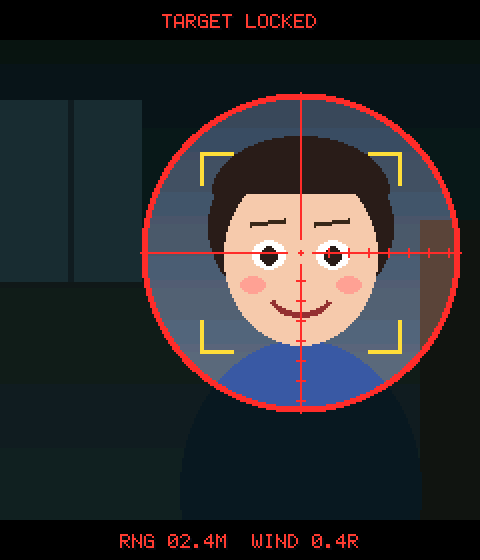
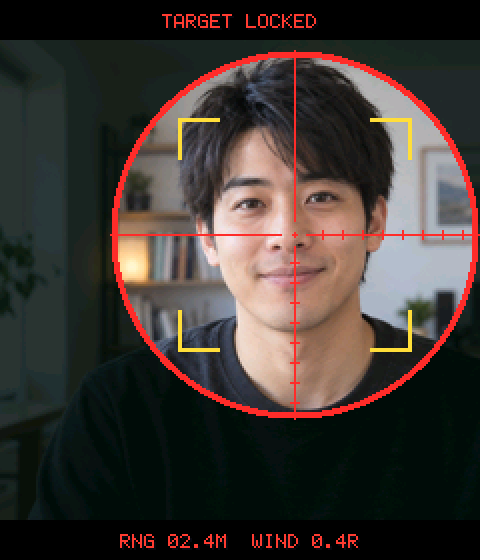
docs: refresh face fight readme visuals

diff --git a/tools/screenshots/render_screens.py b/tools/screenshots/render_screens.py
@@ -2,8 +2,8 @@
 """Render README screenshots from the firmware's own drawing code.
 
 The game logic and renderer in main/main.cpp are compiled on the host with
-hardware functions stripped out. A synthetic cartoon face stands in for the
-camera so no real person appears in the images.
+hardware functions stripped out. An AI-generated fictional adult stands in for
+the camera input so no real person appears in the images.
 
 Usage: uv run --with pillow python tools/screenshots/render_screens.py
 Output: docs/images/*.png and docs/images/lock-on.gif
@@ -13,7 +13,7 @@ import re
 import subprocess
 import tempfile
 
-from PIL import Image, ImageDraw
+from PIL import Image
 
 ROOT = pathlib.Path(__file__).resolve().parents[2]
 HERE = pathlib.Path(__file__).resolve().parent
@@ -53,27 +53,9 @@ def extract_game_source() -> str:
 
 
 def synthetic_camera_frame(path: pathlib.Path) -> None:
-    """A cartoon player in a room; the face box matches host_main.cpp."""
-    image = Image.new("RGB", (320, 240))
-    draw = ImageDraw.Draw(image)
-    for y in range(240):
-        shade = 70 + y // 4
-        draw.line([(0, y), (320, y)], fill=(shade - 20, shade - 5, shade + 15))
-    draw.rectangle([40, 30, 110, 120], fill=(150, 185, 210))  # window
-    draw.line([(75, 30), (75, 120)], fill=(90, 110, 130), width=3)
-    draw.rectangle([250, 90, 300, 240], fill=(95, 70, 60))  # shelf
-    draw.ellipse([130, 150, 250, 300], fill=(60, 90, 160))  # shoulders
-    cx, cy = 190, 106
-    draw.ellipse([cx - 46, cy - 56, cx + 46, cy + 30], fill=(45, 30, 25))  # hair
-    draw.ellipse([cx - 38, cy - 42, cx + 38, cy + 46], fill=(245, 200, 170))
-    draw.chord([cx - 44, cy - 58, cx + 44, cy - 2], 180, 360, fill=(45, 30, 25))
-    for ex in (cx - 16, cx + 16):
-        draw.ellipse([ex - 8, cy - 6, ex + 8, cy + 8], fill=(255, 255, 255))
-        draw.ellipse([ex - 4, cy - 3, ex + 4, cy + 6], fill=(40, 30, 30))
-        draw.line([(ex - 9, cy - 14), (ex + 8, cy - 16)], fill=(60, 40, 30), width=3)
-    draw.ellipse([cx - 30, cy + 12, cx - 18, cy + 20], fill=(250, 160, 150))
-    draw.ellipse([cx + 18, cy + 12, cx + 30, cy + 20], fill=(250, 160, 150))
-    draw.arc([cx - 16, cy + 10, cx + 16, cy + 32], 20, 160, fill=(150, 50, 50), width=3)
+    """Resize the fictional README player to the camera's native frame."""
+    source = HERE / "synthetic-player.png"
+    image = Image.open(source).convert("RGB").resize((320, 240), Image.Resampling.LANCZOS)
     path.write_bytes(image.tobytes())
 
 

diff --git a/tools/screenshots/host_main.cpp b/tools/screenshots/host_main.cpp
@@ -129,11 +129,11 @@ int main(int argc, char **argv) {
   std::fclose(file);
   camera_image = {camera_rgb, kCameraWidth, kCameraHeight};
 
-  // Face box of the synthetic player in camera coordinates (see render_screens.py).
+  // Face box of the fictional player in camera coordinates (see render_screens.py).
   person_present = true;
-  person_box[0] = 150;
-  person_box[1] = 62;
-  person_box[2] = 230;
+  person_box[0] = 142;
+  person_box[1] = 45;
+  person_box[2] = 232;
   person_box[3] = 150;
   stable_face_frames = 3;
 

diff --git a/README.md b/README.md
@@ -1,4 +1,4 @@
-# Chi Face Fight
+# Face Fight
 
 A self-contained face-fighting game for an ESP32-S3 camera board and a
 240 x 280 touch LCD. The reference build uses a Seeed Studio XIAO ESP32S3 Sense
@@ -10,22 +10,31 @@ transparent, moving opponent while Secretary Chi walks, punches, kicks, dodges,
 blocks, gets hit, and celebrates using pixel-art sprite animation.
 
 <p align="center">
-  <img src="docs/images/lock-on.gif" width="240" alt="Sniper lock-on sequence after the face is captured">
+  <img src="docs/images/lock-on.gif" width="320" alt="Sniper lock-on sequence after the face is captured">
 </p>
 
 ## Screenshots
 
-| Find face | Lock on | Intro | Attack | Warning |
-|:-:|:-:|:-:|:-:|:-:|
-| <img src="docs/images/01-find-face.png" width="150"> | <img src="docs/images/02-lock-on.png" width="150"> | <img src="docs/images/03-intro.png" width="150"> | <img src="docs/images/04-attack.png" width="150"> | <img src="docs/images/05-warning.png" width="150"> |
+| Find a face | Fight | Flick dodge |
+|:-:|:-:|:-:|
+| <img src="docs/images/01-find-face.png" width="220" alt="Face detection on the camera preview"> | <img src="docs/images/04-attack.png" width="220" alt="Chi landing a combo attack"> | <img src="docs/images/06-flick-jump.png" width="220" alt="Chi dodging an incoming attack"> |
 
-| Flick dodge | Weak point | Critical | Chi wins | Face wins |
-|:-:|:-:|:-:|:-:|:-:|
-| <img src="docs/images/06-flick-jump.png" width="150"> | <img src="docs/images/07-weak-point.png" width="150"> | <img src="docs/images/08-critical.png" width="150"> | <img src="docs/images/09-chi-wins.png" width="150"> | <img src="docs/images/10-face-wins.png" width="150"> |
+<details>
+<summary>More game states</summary>
+
+| Lock on | Intro | Warning | Weak point |
+|:-:|:-:|:-:|:-:|
+| <img src="docs/images/02-lock-on.png" width="170" alt="Target lock-on view"> | <img src="docs/images/03-intro.png" width="170" alt="Face Fight intro"> | <img src="docs/images/05-warning.png" width="170" alt="Incoming attack warning"> | <img src="docs/images/07-weak-point.png" width="170" alt="Glowing weak point on the opponent"> |
+
+| Critical | Chi wins | Face wins |
+|:-:|:-:|:-:|
+| <img src="docs/images/08-critical.png" width="220" alt="Critical attack effect"> | <img src="docs/images/09-chi-wins.png" width="220" alt="Chi wins the round"> | <img src="docs/images/10-face-wins.png" width="220" alt="The face wins the round"> |
+
+</details>
 
 These screenshots are rendered by the firmware's own drawing code compiled on
 the host (see [Regenerating screenshots](#regenerating-screenshots)); the
-opponent is a synthetic cartoon face, not a real person.
+opponent is an AI-generated fictional adult, not a real person.
 
 ## Game flow
 
